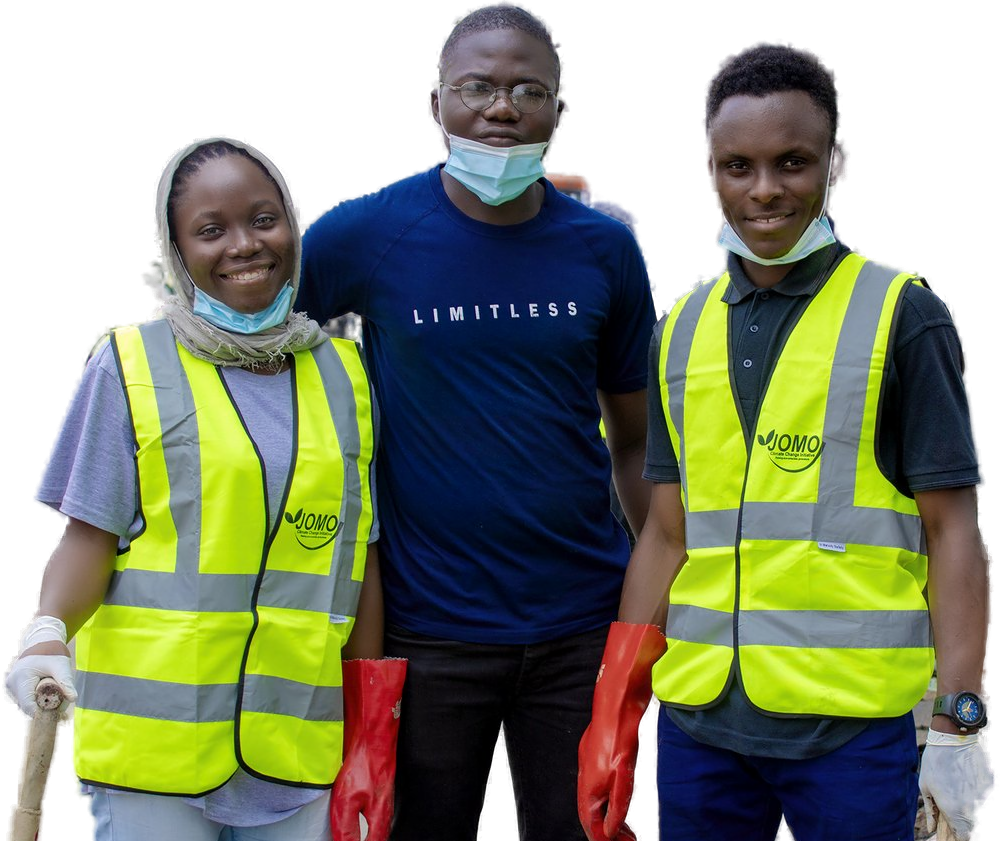
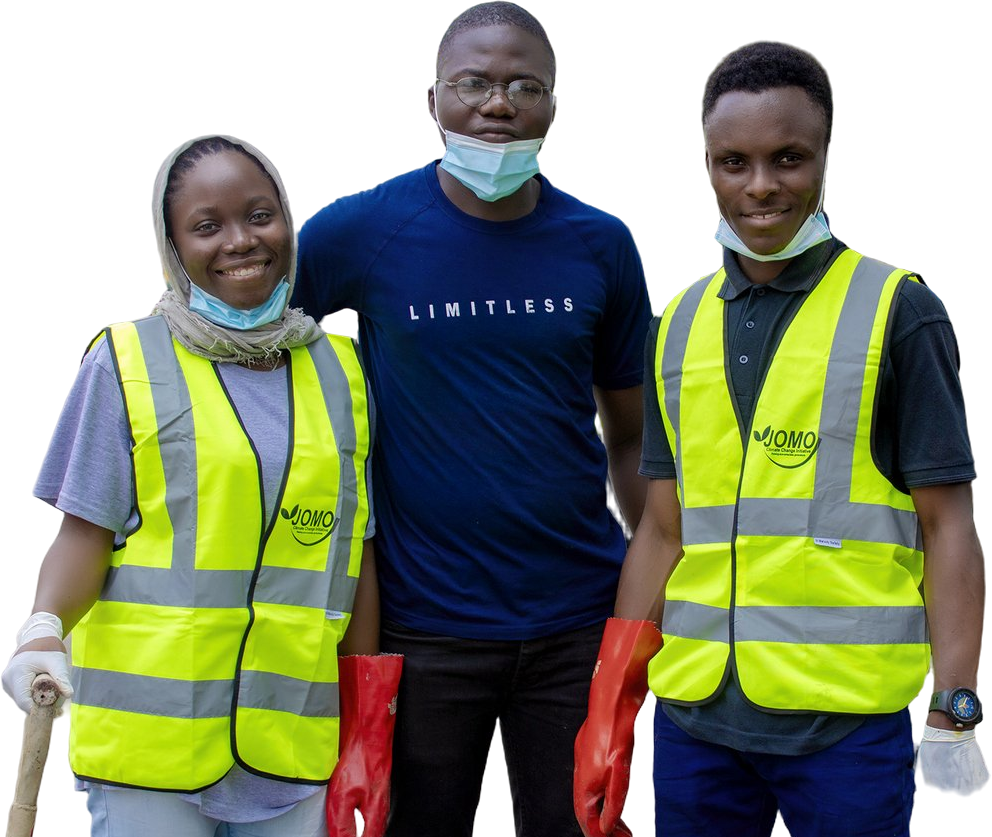
draft: new-month post, cleaner volunteer cut-out (BiRefNet, edge clean-up)
Claude-Session: https://claude.ai/code/session_01F6NcUsFQ3PsVvfZiAxD4Cd

diff --git a/tools/cutout.py b/tools/cutout.py
@@ -1,0 +1,45 @@
+"""Clean photo cut-outs for flyers (Designer).
+
+    python3 tools/cutout.py <photo.jpg> <out.png> [--crop-bottom 0.905] [--model birefnet-portrait]
+
+1. Person mask with rembg (BiRefNet portrait by default: cleanest hair and no stray background blobs).
+2. Keep only the large connected shapes (drops specks of leftover background).
+3. Choke the soft edge a little and recolour edge pixels from the person's own interior colours,
+   so no light or dark fringe from the old background shows on a new one.
+"""
+import sys, argparse
+import numpy as np, cv2
+from PIL import Image
+from rembg import remove, new_session
+
+ap = argparse.ArgumentParser()
+ap.add_argument("src"); ap.add_argument("out")
+ap.add_argument("--crop-bottom", type=float, default=1.0, help="keep this fraction of the height (crops off watermarks)")
+ap.add_argument("--model", default="birefnet-portrait")
+a = ap.parse_args()
+
+im = Image.open(a.src).convert("RGB")
+mask = np.asarray(remove(im, session=new_session(a.model), only_mask=True).convert("L")).astype(np.float32) / 255
+rgb = np.asarray(im).astype(np.float32)
+
+# 2. keep shapes bigger than 2% of the largest
+n, lab, stats, _ = cv2.connectedComponentsWithStats((mask > 0.5).astype(np.uint8), 8)
+if n > 1:
+    big = stats[1:, cv2.CC_STAT_AREA].max()
+    keep = np.zeros(n, bool); keep[1:] = stats[1:, cv2.CC_STAT_AREA] > 0.02 * big
+    region = cv2.dilate(keep[lab].astype(np.uint8), np.ones((15, 15), np.uint8))   # keep each shape's soft edge
+    mask = mask * region
+
+# 3. choke the edge and decontaminate its colour
+alpha = np.clip((mask - 0.12) / 0.83, 0, 1) ** 1.15
+inner = (alpha > 0.97).astype(np.float32)
+num = cv2.GaussianBlur(rgb * inner[..., None], (0, 0), 6); den = cv2.GaussianBlur(inner, (0, 0), 6)[..., None]
+est = num / np.maximum(den, 1e-4)
+edge = ((alpha > 0) & (alpha < 0.97))[..., None]
+w = np.clip(1 - alpha, 0, 1)[..., None]                       # the softer the pixel, the more it takes the interior colour
+out_rgb = np.where(edge, rgb * (1 - w) + est * w, rgb)
+out = np.dstack([np.clip(out_rgb, 0, 255), alpha * 255]).astype(np.uint8)
+
+h = int(out.shape[0] * a.crop_bottom)
+img = Image.fromarray(out[:h], "RGBA"); img = img.crop(img.getbbox()); img.save(a.out)
+print("saved", a.out, img.size)

diff --git a/content/posts/2026-11-01-new-month-november/captions.md b/content/posts/2026-11-01-new-month-november/captions.md
@@ -9,7 +9,7 @@ Big idea (Creative Director): the operator's own new-month format (giant month n
 
 It replaces the plain "2 days left" story and X post (operator, 2026-11-01). The YCEF countdown rides along in the caption and on the story.
 
-Photo: `oniwaya-cleanup-10.jpg` (three JOMO volunteers at the Oniwaya clean-up, Agege, Lagos), background removed with rembg. The cut-out is in `assets/photos/cutouts/`.
+Photo: `oniwaya-cleanup-10.jpg` (three JOMO volunteers at the Oniwaya clean-up, Agege, Lagos), background removed with `tools/cutout.py` (rembg with the BiRefNet portrait model, stray specks removed, edges cleaned so no fringe from the old background shows). The cut-out is in `assets/photos/cutouts/`.
 
 ### Sun 2026-11-01, 19:30 WAT · Instagram + Facebook · Youth and volunteer voices
 Hook: ~~October.~~ Happy new month. Welcome to November.
